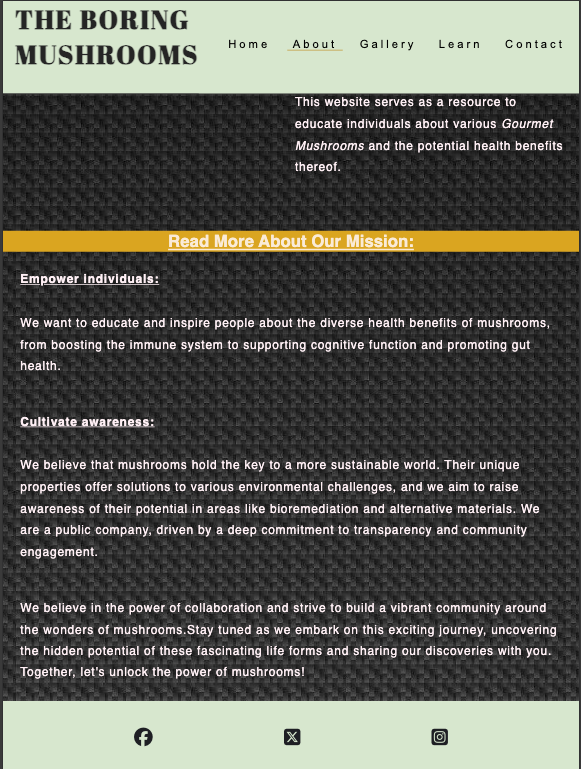
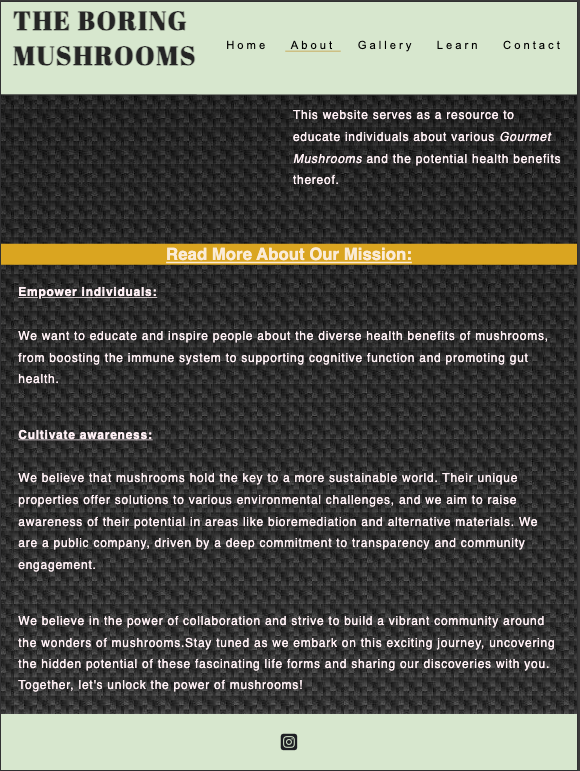
Removed twitter and facebook links from every page and added updated  pics(social link removed screenshot) for the readme page

diff --git a/learn.html b/learn.html
@@ -520,10 +520,6 @@
 
     <footer style="background-color: #D7E7CE">
         <ul id="social-network">
-            <li><a href="www.facebook.com" target="_blank" rel="noopener" aria-label="Visit our facebook page"></a><i
-                    class="fa-brands fa-facebook"></i></li>
-            <li><a href="www.twitter.com" target="_blank" rel="noopener" aria-label="Visit our twitter page"></a><i
-                    class="fa-brands fa-square-x-twitter"></i></li>
             <li><a href="www.instagram.com" target="_blank" rel="noopener" aria-label="Visit our instagram page"></a><i
                     class="fa-brands fa-square-instagram"></i></li>
         </ul>

diff --git a/contact.html b/contact.html
@@ -109,10 +109,6 @@
   </main>
   <footer style="background-color: #D7E7CE">
     <ul id="social-network">
-      <li><a href="www.facebook.com" target="_blank" rel="noopener" aria-label="Visit our facebook page"></a><i
-          class="fa-brands fa-facebook"></i></li>
-      <li><a href="www.twitter.com" target="_blank" rel="noopener" aria-label="Visit our twitter page"></a><i
-          class="fa-brands fa-square-x-twitter"></i></li>
       <li><a href="www.instagram.com" target="_blank" rel="noopener" aria-label="Visit our instagram page"></a><i
           class="fa-brands fa-square-instagram"></i></li>
     </ul>

diff --git a/about.html b/about.html
@@ -87,10 +87,6 @@
   </main>
   <footer style="background-color: #D7E7CE">
     <ul id="social-network">
-      <li><a href="www.facebook.com" target="_blank" rel="noopener" aria-label="Visit our facebook page"></a><i
-          class="fa-brands fa-facebook"></i></li>
-      <li><a href="www.twitter.com" target="_blank" rel="noopener" aria-label="Visit our twitter page"></a><i
-          class="fa-brands fa-square-x-twitter"></i></li>
       <li><a href="www.instagram.com" target="_blank" rel="noopener" aria-label="Visit our instagram page"></a><i
           class="fa-brands fa-square-instagram"></i></li>
     </ul>

diff --git a/gallery.html b/gallery.html
@@ -162,10 +162,6 @@
 
   <footer style="background-color: #D7E7CE">
     <ul id="social-network">
-      <li><a href="www.facebook.com" target="_blank" rel="noopener" aria-label="Visit our facebook page"></a><i
-          class="fa-brands fa-facebook"></i></li>
-      <li><a href="www.twitter.com" target="_blank" rel="noopener" aria-label="Visit our twitter page"></a><i
-          class="fa-brands fa-square-x-twitter"></i></li>
       <li><a href="www.instagram.com" target="_blank" rel="noopener" aria-label="Visit our instagram page"></a><i
           class="fa-brands fa-square-instagram"></i></li>
     </ul>

diff --git a/README.md b/README.md
@@ -31,48 +31,74 @@ Our website comprises five easily navigable pages. Here's a breakdown:
     * **Purpose:** On the Home page, the user is welcomed with a clean user interface of the website where only the absoulte essential links are kept. The 'Home Page' is created differently than rest of the page to give a minimilistic look. This page leads the user to different webpages of the website.
     * **Functionality:** Features the website logo, company name, and five hyperlinks for seamless navigation. Active pages are indicated with an underline and hover effects.
     * **Deployed website:** Images of the deployed Home page for two screen sizes:
+
         * **Screen size 375x667px (iPhone SE):**
+
             ![](assets/media/SmallSrnHomePage.png)
+
         * **Screen size 768x1024px (iPad Mini):**
+
             ![](assets/media/BiggerSrnHomePage.png)
 
 - **`About`**
     * **Purpose:** The About page has the company name on the top left corner of the screen followed by a navigation bar that is only active until the user is accessing the website via a device with min-width less then 768px. Tells the story behind the website, its creators, and their motivations. 
     * **Functionality:** Features a navigation bar active on smaller screens (less than 768px width). Offers a hidden "Read more about our mission" section revealed on click, with a hover effect.
     * **Deployed website:** Images of the deployed About page for two screen sizes:
+
         * **Screen size 375x667px (iPhone SE):**
+
             ![](assets/media/AboutUs-01.png)
+
+
             ![](assets/media/SmallSrnAboutUs-02.png)
+
         * **Screen size 768x1024px (iPad Mini):**
+
             ![](assets/media/BiggerSrnAboutUs-01.png)
+
+
             ![](assets/media/BiggerSrnAboutUs-02.png)
 
 - **`Gallery`** 
     * **Purpose:** Showcases images of all featured gourmet mushrooms, providing links to their details on the 'Learn' page.
     * **Functionality:** Maintains a clean, image-focused design. Image captions link to corresponding sections on the 'Learn' page.
     * **Deployed website:** Images of the deployed Gallery page for two screen sizes:
+
         * **Screen size 375x667px (iPhone SE):**
+
             ![](assets/media/SmallSrnGalleryPage.png)
+
         * **Screen size 768x1024px (iPad Mini):**
+
             ![](assets/media/BiggerSrnGalleryPage.png)
 
 - **`Learn`**
     * **Purpose:** Provides interesting facts and stories about different mushrooms on the website.
     * **Functionality:** Every section is further linked to its corresponding picture in the gallery.html page.  
     * **Deployed website:** Images of the deployed Home page for two screen sizes:
+
         * **Screen size 375x667px (iPhone SE):**
+
             ![](assets/media/SmallSrnLearnPage-01.png)
+
+
             ![](assets/media/SmallSrnLearnPage-02.png)
+
         * **Screen size 768x1024px (iPad Mini):**
+
             ![](assets/media/BiggerSrnLearnPage-01.png)
 
 - **`Contact Us`**
     * **Purpose:** Enables users to send feedback and choose their favorite mushrooms from a questionnaire.
     * **Functionality:** Features fields for simple contact details, mushroom preferences and leave feedback.
     * **Deployed website:** Images of the deployed Home page for two screen sizes:
+
         * **Screen size 375x667px (iPhone SE):**
+
             ![](assets/media/SmallSrnContactUsPage.png)
+            
         * **Screen size 768x1024px (iPad Mini):**
+
             ![](assets/media/BiggerSrnContactUsPage.png)
 
 ## Possible Future Implementations
